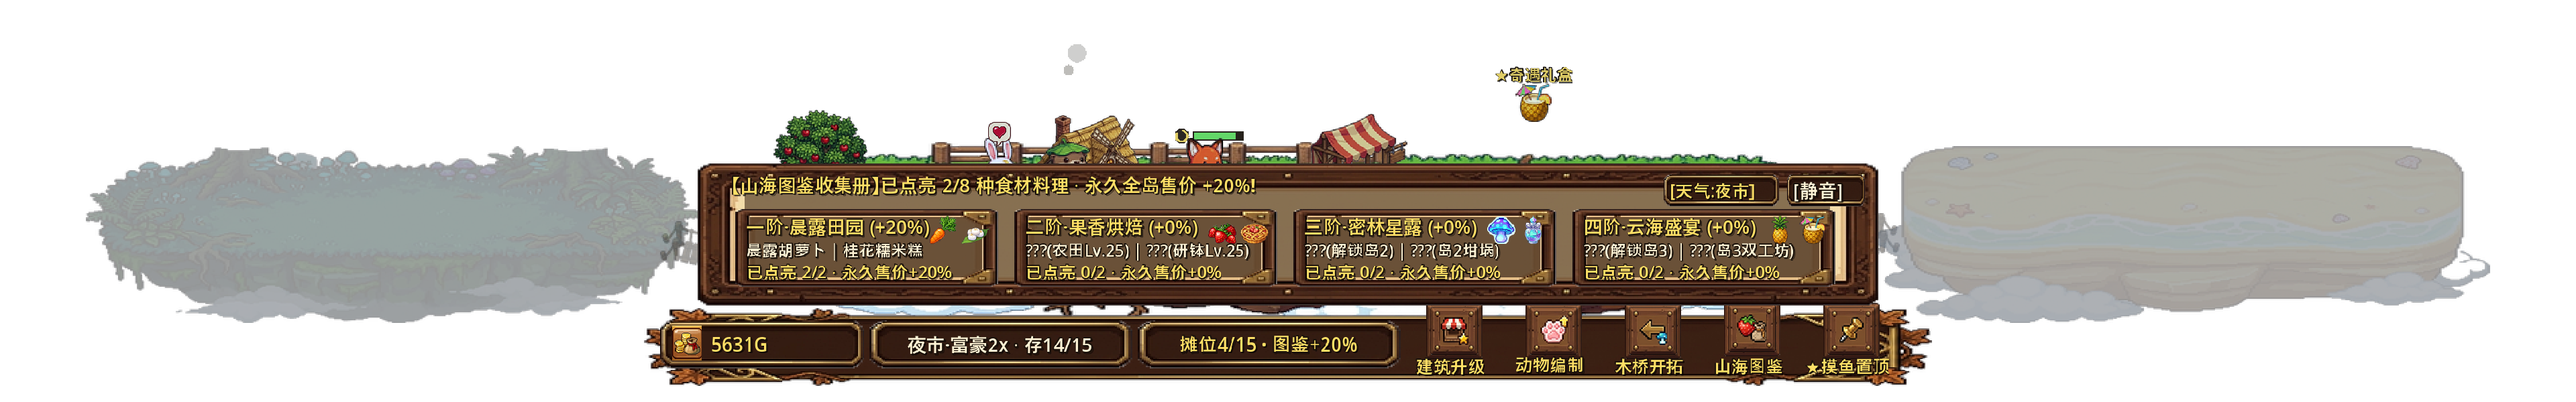
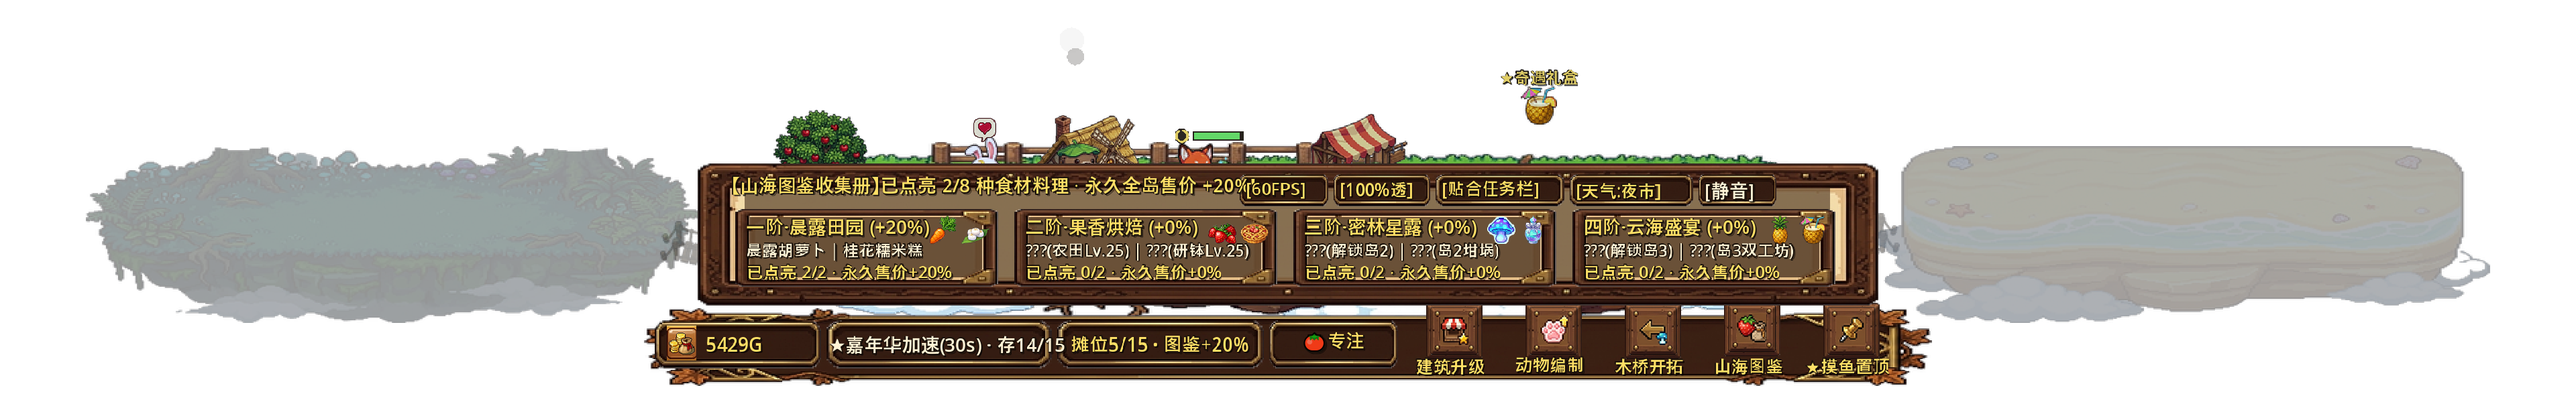
feat(v2.4): implement eco-fps, window opacity, taskbar docking and pomodoro focus timer with live audit assertions

Changed region(s): [[0.375, 0.3, 0.7188, 0.54], [0.25, 0.78, 0.5312, 0.93], [0.5625, 0.15, 0.625, 0.3]]

diff --git a/playtest_audit_log.md b/playtest_audit_log.md
@@ -175,3 +175,24 @@
 - **产线活体与交互**: 兔子累计移动 `1748.0px` (全员 `3937.6px`)，农田收获 `27` 次，入库/上架 `54` 件，顾客结账 `3` 单，滚轮鼠标锚点缩放与锁岛防误升校验通过。
 - **真机双状态截图哈希**: 收起态 `208de7aeb1600bb9` | 展开态 `4baa9904867cde2d`
 
+## [2026-11-05 16:27:23] 自主试玩巡检 PASS (PRD契约已同步: 完成 7 项 | 待办 12 项)
+- **下一轮自动开发目标 (`NEXT-DEV-TARGET`)**: `[v2.4-3] 任务栏智能贴合、节能帧率锁与窗口透明度调节 (`WindowController.gd` + `HUD.gd`)：使用 `DisplayServer.screen_get_usable_rect()` 自动避让系统任务栏贴底停靠，新增节能帧率切换（`30 / 60 FPS`）与窗口整体透明度调节（`60% ~ 100%`）；在 `SelfTestRunner.gd` 增加帧率锁与透明度接口校验断言`
+- **切帧与姿态防呆**: 已校验 `23` 个精灵节点，0 越界切帧、0 旋转异常、前爪抱篮 3 层合成挂载正常。
+- **建筑间距与图层**: 三岛 12 座主建筑最大水平重叠率 `0.0%` (`<=15%`)，最小净间距 `29.9px` (`>=28px`)。
+- **产线活体与交互**: 兔子累计移动 `1748.0px` (全员 `3937.6px`)，农田收获 `27` 次，入库/上架 `54` 件，顾客结账 `3` 单，滚轮鼠标锚点缩放与锁岛防误升校验通过。
+- **真机双状态截图哈希**: 收起态 `a38bc5c17a67128b` | 展开态 `aa858c61354d3d30`
+
+## [2026-11-05 16:29:16] 自主试玩巡检 PASS (PRD契约已同步: 完成 7 项 | 待办 12 项)
+- **下一轮自动开发目标 (`NEXT-DEV-TARGET`)**: `[v2.4-3] 任务栏智能贴合、节能帧率锁与窗口透明度调节 (`WindowController.gd` + `HUD.gd`)：使用 `DisplayServer.screen_get_usable_rect()` 自动避让系统任务栏贴底停靠，新增节能帧率切换（`30 / 60 FPS`）与窗口整体透明度调节（`60% ~ 100%`）；在 `SelfTestRunner.gd` 增加帧率锁与透明度接口校验断言`
+- **切帧与姿态防呆**: 已校验 `23` 个精灵节点，0 越界切帧、0 旋转异常、前爪抱篮 3 层合成挂载正常。
+- **建筑间距与图层**: 三岛 12 座主建筑最大水平重叠率 `0.0%` (`<=15%`)，最小净间距 `29.9px` (`>=28px`)。
+- **产线活体与交互**: 兔子累计移动 `1794.0px` (全员 `4063.5px`)，农田收获 `29` 次，入库/上架 `57` 件，顾客结账 `3` 单，滚轮鼠标锚点缩放与锁岛防误升校验通过。
+- **真机双状态截图哈希**: 收起态 `a444cf1af924f684` | 展开态 `23845fcaf5693595`
+
+## [2026-11-05 16:30:15] 自主试玩巡检 PASS (PRD契约已同步: 完成 9 项 | 待办 10 项)
+- **下一轮自动开发目标 (`NEXT-DEV-TARGET`)**: `[v2.5-1] 飞艇皇家订单与二级货币「晨露琥珀」系统 (`GameManager.gd` + `HUD.gd`)：新增 `amber: int`（晨露琥珀）与循环刷新的皇家订单 `active_contract`（提交/售出指定数量作物或料理后自动完成订单，奖励金币 + `1~3` 颗晨露琥珀并刷新下一单）；在 `HUD.gd` 展示琥珀与订单进度，并在 `SelfTestRunner.gd` 增加订单完成与琥珀发放断言`
+- **切帧与姿态防呆**: 已校验 `23` 个精灵节点，0 越界切帧、0 旋转异常、前爪抱篮 3 层合成挂载正常。
+- **建筑间距与图层**: 三岛 12 座主建筑最大水平重叠率 `0.0%` (`<=15%`)，最小净间距 `29.9px` (`>=28px`)。
+- **产线活体与交互**: 兔子累计移动 `1748.0px` (全员 `3937.6px`)，农田收获 `27` 次，入库/上架 `54` 件，顾客结账 `3` 单，滚轮鼠标锚点缩放与锁岛防误升校验通过。
+- **真机双状态截图哈希**: 收起态 `1ef0b7ba51396e1d` | 展开态 `769dbd86dcfef58f`
+
